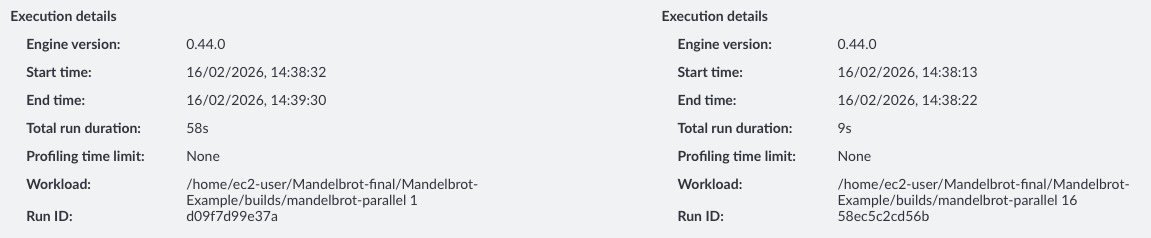
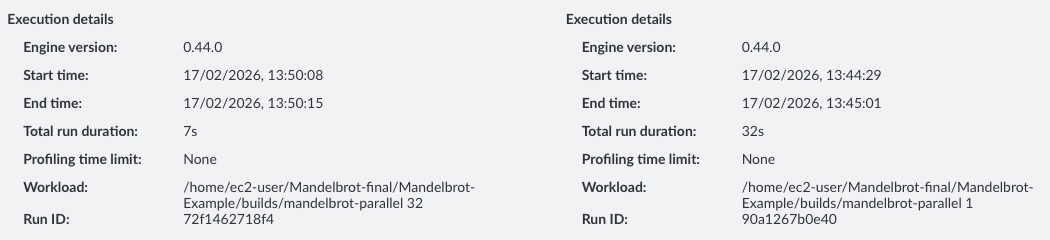
final tidy before PR

diff --git a/content/learning-paths/servers-and-cloud-computing/cpu_hotspot_atp/how-to-4.md b/content/learning-paths/servers-and-cloud-computing/cpu_hotspot_atp/how-to-4.md
@@ -6,25 +6,45 @@ weight: 5
 layout: learningpathall
 ---
 
-Now we can leverage the insights surfaced by ATP to focus the optimizations around the hottest functions. Looking at the source code, we understand the the hypotenuse function, `__hypot`, is being invoked to calculate the absolute value of a complex number. 
+Now we can leverage the insights surfaced by ATP to focus the optimizations around the hottest functions. Looking at the source code, we understand the the hypotenuse function, `__hypot`, is being invoked by the `Mandelbrot::getIterations` function to calculate the absolute value of a complex number. You may consider trying to used an optimized version of `libm`
 
-We can also see that the number of iterations is of the absolute value is limited by the loop boundary, MAX_ITERATIONS. Our first optimization could be to reduce MAX_ITERATIONS. This is defined as 1024 a static const integer in the `Mandelbrot.h` header. We could half this to 512 and assess the perceived image quality on our fractal.
+Looking at the `Mandelbrot::getIterations` function,  there are some obvious ways to optimize. 
+
+```cpp
+    while (iterations < MAX_ITERATIONS){
+        z = (z*z) + c;
+        if (abs(z) > THRESHOLD){
+            break;
+        }
+        iterations++;
+    }
+```
+
+### Optimization 1 - Limiting Loop Boundary
+
+
+We can see that the number of iterations is of the absolute value is limited by the loop boundary, MAX_ITERATIONS. Our first optimization could be to reduce MAX_ITERATIONS. This is defined as 1024 a static const integer in the `Mandelbrot.h` header. We could half this to 512 and assess the perceived image quality on our fractal.
 
 ```cpp
 public:
 ...
     static const int MAX_ITERATIONS = (1<<10);
 ...
-
 ```
 
+On the remote server, reduce `MAX_ITERATIONS` in `Mandelbrot.h` and rename the output file string in `main.cpp` to something else and rebuild the binary with the following command.
 
+```bash
+./build.sh
+```
 
-Looking at the change in image quality, there is neglible difference.
+Next, click on the refresh icon in the top right to rerun the recipe. Next we select the comparison mode to view differences in the run. Navigating to the 'Run Details' tab, we observe a reducion in run duration from 1m 0s to 0m 32s, almost proportional to the reduction in `MAX_ITERATIONS`. However, we need to see if the tradeoff between image quality and runtime was worth it. 
+
+Looking at the change in image quality, there is neglible difference in perceived image quality when halfing MAX_ITERATIONS. 
 
 ![comparison](./comparison.jpg)
 
-## Running hottest function on many cores
+### Optimization 2 - Parallelising Hot Function
 
 Fortunately, our loop does not contain any loop-carried dependencies, where the result of an iterations depends on a future or previous iteration. As such we can parallelize our hot function to fun on multiple threads if our CPU has multiple cores. 
 
@@ -36,21 +56,33 @@ git checkout main
 
 This branch parallelized the `Mandelbrot::draw` function, which is earlier function in the stack that eventually calls the `__hypot` function. 
 
-Build the example and run with 16 threads.
+Build the example, this creates a binary `./builds/mandelbrot-parallel` which takes in a numerical command line arguments to set the number of threads.
 
 ```bash
 ./build.sh
-./builds/mandelbrot-parallel 16
 ```
 
-To assess the change, we can compare with a previous run. Looking under the `Run Details` tab, we can see the execution time has reduced from 58s with 1 thread to 9s with 16 threads.
+Rerun the recipe with the new binary from Arm Total Peformance running on the host. 
+
+To assess the change, we can compare with a previous run. Looking under the `Run Details` tab, we can see the execution time has reduced further from 0m 32s to 7s with 32 threads.
 
 ![exec-change](./comparison-time.jpg)
 
 The percentage point of samples has not changed significantly, but we see with 64 threads the % of sampling landing on the `Mandelbrot::draw` function has reduced by 7%. This suggests that if we want to further improve the execution time, further optimizations on the `Mandelbrot::draw` function will yield the greatest benefit. 
 
-![flame-graph-comparison](./flame-graph-comparison.jpg)
+![flame-graph-comparison](./flame-graph-comparison.jpg).
+
+**Please Note:** The total run duration is the runtime for both the tooling setup and data analysis, not the runtime of the application. Using a command line tool such as `time` we observe the application duration is now ~ 1s. Resulting in almost a 100x improvement in runtime!  
+
+### (Optional Challenge) Additional optimizations
+
+You may have noticed our build script uses the `-O0` flag, which ensures the compiler does not add any additional optimizations. You can experiment with additional optimization levels, loop boundary sizes and threads. Please see our learning path introducing [basic compiler flags](https://learn.arm.com/learning-paths/servers-and-cloud-computing/cplusplus_compilers_flags/) for more information. Additionally, you may wish to look at vectorized libraries that could replace the hypotenuse function in `libm`, such as the [Arm Performance Libraries](https://developer.arm.com/documentation/101004/2601/Arm-Performance-Libraries-Math-Functions/Arm-Performance-Libraries-Vector-Math-Functions--Accuracy-Table).
 
 
 ## Summary
 
+In this learning path, we reduced the runtime of the Mandelbrot example by focusing on the hottest code paths—cutting execution time from around 1 minute to ~1 second through targeted optimization and parallelization. While this example is relatively simple and the optimizations are more obvious, the same principle applies to real-world workloads: optimize what matters most first, based on measurement.
+
+The cpu_hotspot recipe is designed to quickly identify an application’s hottest (most CPU-time-dominant) functions, giving you a clear, evidence-based starting point for performance work. By surfacing where execution time is actually being spent, it helps ensure any optimizations are targeted at the parts of the code most likely to deliver the largest performance gains, rather than relying on guesswork.
+
+This is often one of the first profiling steps you’ll run when assessing an application’s performance characteristics—especially to determine which functions dominate runtime and should be prioritized. Once hotspots are identified, you can follow up with deeper, function-specific analysis, such as memory investigations or top-down studies, and even build microbenchmarks around hot functions to explore lower-level bottlenecks and uncover additional optimization opportunities.

diff --git a/content/learning-paths/servers-and-cloud-computing/cpu_hotspot_atp/how-to-1.md b/content/learning-paths/servers-and-cloud-computing/cpu_hotspot_atp/how-to-1.md
@@ -16,16 +16,12 @@ Take a look at the example flame graph below.
 
 ![example](./flame-graph-example.jpg)
 
-The x axis represents the relative number of samples attributed to code paths ordered alphabetically, **not** a timeline. A wider block means that function appeared in more samples and therefore consumed more of the measured resource, typically CPU time. The y axis represents call stack depth. Frames at the bottom are closer to the root of execution such as a thread entry point, and frames above them are functions called by the frames below. A common workflow is to start with the widest blocks, then move upward through the stack to understand which callees dominate that hot path. The horizontal position is primarily a layout choice produced by merging stacks and does not imply ordering of events.
+The x axis represents the relative number of samples attributed to code paths ordered alphabetically, **not** a timeline. A wider block means that function appeared in more samples and therefore consumed more of the measured resource, typically CPU time. The y axis represents call stack depth. Frames at the bottom are closer to the root of execution such as a thread entry point, and frames above them are functions called by the frames below. A common workflow is to start with the widest blocks, then move upward through the stack to understand which callees dominate that hot path. Each sample captures a snapshot of the current call stack. Many samples are then aggregated by grouping identical stacks and summing their counts. This merging step is what makes flame graphs compact and readable. Reliable stack walking matters, and frame pointers are a common mechanism used to reconstruct the function call hierarchy consistently. When frame pointers are present, it is easier to unwind through nested calls and produce accurate stacks that merge cleanly into stable blocks.
 
-How stacks are collected and merged
+This learning path is not meant as a detailed explanation of flame graphs, if you would like to learn more please read [this blog](https://www.brendangregg.com/flamegraphs.html) by the original creator, Brendan Gregg. 
 
-Each sample captures a snapshot of the current call stack. Many samples are then aggregated by grouping identical stacks and summing their counts. This merging step is what makes flame graphs compact and readable. Reliable stack walking matters, and frame pointers are a common mechanism used to reconstruct the function call hierarchy consistently. When frame pointers are present, it is easier to unwind through nested calls and produce accurate stacks that merge cleanly into stable blocks.
+## Tooling options
 
-Collecting samples with perf and preparing a good build to analyse
+On Linux, flame graphs are commonly generated from samples collected with `perf`. perf periodically interrupts the running program and records a stack trace, then the collected stacks are converted into a folded format and rendered as the graph. Sampling frequency is important. If the frequency is too low you may miss short lived hotspots, and if it is too high you may introduce overhead or skew the results. To make the output informative, compile with debug symbols and preserve frame pointers so stacks resolve to meaningful function names and unwind reliably. A typical build uses `-g` and `-fno-omit-frame-pointer`.
 
-On Linux, flame graphs are commonly generated from samples collected with `perf`. perf periodically interrupts the running program and records a stack trace, then the collected stacks are converted into a folded format and rendered as the graph. Sampling frequency is important. If the frequency is too low you may miss short lived hotspots, and if it is too high you may introduce overhead or skew the results. To make the output informative, compile with debug symbols and preserve frame pointers so stacks resolve to meaningful function names and unwind reliably. A typical tutorial build uses `-g` and `-fno-omit-frame-pointer`.
-
-Tooling options
-
-The classic workflow is command line driven using perf for collection and separate scripts to generate the flame graph, following the approach introduced by Brendan Gregg, who is widely credited with creating and popularizing flame graphs. Arm has also developed a tool that simplifies this workflow through Arm Total Performance, making it easier to configure collection, run captures, and explore the resulting call hierarchies without manually stitching together the individual steps. 
+Arm has also developed a tool that simplifies this workflow through the CPU Cycle hotspot recipe in Arm Total Performance, making it easier to configure collection, run captures, and explore the resulting call hierarchies without manually stitching together the individual steps. This is the tooling solution we will use in this learning path.

diff --git a/content/learning-paths/servers-and-cloud-computing/cpu_hotspot_atp/how-to-2.md b/content/learning-paths/servers-and-cloud-computing/cpu_hotspot_atp/how-to-2.md
@@ -8,31 +8,33 @@ layout: learningpathall
 
 ## Setup
 
-This learning path uses a worked example to make flame graphs and sampling based profiling practical. We will generate a fractal bitmap image by computing the Mandelbrot set and mapping its iteration counts to pixel values. The program is written in C++11, and you will have access to the full source code so you can rebuild it, profile it, and relate what you see in the flame graph back to specific functions and loops.
+This learning path uses a hands-on worked example to make sampling-based profiling and flame graphs practical. You’ll build a C++11 program that generates a fractal bitmap by computing the Mandelbrot set, then mapping each pixel’s iteration count to a pixel value. You’ll have the full source code, so you can rebuild the program, profile it, and connect what you see in the flame graph back to the exact functions and loops responsible for the runtime.
 
-A fractal is a pattern with detail at many scales, often showing self similar structure. Fractals are typically produced by repeatedly applying a mathematical rule. In the Mandelbrot case, each pixel represents a complex number and is iterated through a simple recurrence. How quickly the value escapes, or whether it stays bounded, determines the coloring and creates the distinctive image. Please refer to the [Wikipedia](https://en.wikipedia.org/wiki/Mandelbrot_set) page for more information.
+A fractal is a pattern that shows detail at many scales, often with self-similar structure. Fractals are usually generated by repeatedly applying a simple mathematical rule. In the Mandelbrot set, each pixel corresponds to a complex number, which is iterated through a basic recurrence. How quickly the value “escapes” (or whether it stays bounded) determines the pixel’s color and produces the familiar Mandelbrot image.
+
+You don’t need to understand the Mandelbrot algorithm in detail to follow this learning path—we’ll use it primarily as a convenient, compute-heavy workload for profiling. If you'd  like to learn more, please refer to the [Wikipedia](https://en.wikipedia.org/wiki/Mandelbrot_set) page for more information.
+ 
 
 ## Connect to APT Target
 
-Please refer to the [installation guide](https://learn.arm.com/install-guides/atp) if it is your first time setting up Arm Total Performance. In this learning path, I will be connection to an AWS Graviton3 metal instance with 64 Neoverse V1 cores. From the host machine, test the connection to the remote server by navigating to `'Targets`->`Test Connection`. You should see the successul connection below. 
+Please refer to the [installation guide](https://learn.arm.com/install-guides/atp) if it is your first time setting up Arm Total Performance. In this learning path, I will be connecting to an AWS Graviton3 metal instance (`m7g.metal`) with 64 Neoverse V1 cores. From the host machine, test the connection to the remote server by navigating to `'Targets`->`Test Connection`. You should see the successul connection below. 
 
 ![successful-connection](./successful-connection.jpg).
 
 ## Build Application on Remote Server
 
-Next, connect to the remote server, for example using SSH or VisualStudio Code, and clone the Mandelbrot repository 
+Next, connect to the remote server, for example using SSH or VisualStudio Code, and clone the Mandelbrot repository. This is available under the [Arm Education License](https://github.com/arm-university/Mandelbrot-Example?tab=License-1-ov-file) for teaching and learning. Create a new directory where you will store and build this example. Next, run the commands below.
 
 ```bash
-cd ~
-git clone git@github.com:arm-university/Mandelbrot-Example.git # TODO - UPDATE WITH PUBLIC HTTPS
-cd Mandelbrot-Example
+git clone https://github.com/arm-university/Mandelbrot-Example.git
+cd Mandelbrot-Example && mkdir images builds
 git checkout single-thread
 ```
 
-Install a C++ compiler using your operating system's package manager.
+Install a C++ compiler, for example using your operating system's package manager.
 
-```
-sudo dnf install g++ gcc
+```bash
+sudo dnf update && sudo dnf install g++ gcc
 ```
 
 Build the application. 

diff --git a/content/learning-paths/servers-and-cloud-computing/cpu_hotspot_atp/how-to-3.md b/content/learning-paths/servers-and-cloud-computing/cpu_hotspot_atp/how-to-3.md
@@ -8,9 +8,9 @@ layout: learningpathall
 
 ## Run CPU Cycle Hotspot Recipe
 
-As the `main.cpp` file below shows, we simply create a 1920x1080 bitmap image of our fractal. To quickly see where the bottleneck, or hotspot, within our program is, we will run the recipe through Arm Total Performance (ATP). 
+As shown in the `main.cpp` file below, the program generates a 1920×1080 bitmap image of our fractal. To identify performance bottlenecks, we’ll run the CPU Cycle Hotspot recipe in Arm Total Performance (ATP). ATP uses sampling to estimate where the CPU spends most of its time, allowing it to highlight the hottest functions—especially useful in larger applications where it isn’t obvious ahead of time which functions will dominate runtime.
 
-**Please Note**: You will need to replace the first string argument in the `myplot.draw()` function with the absolute path to the image folder and rebuild the application.
+**Please Note**: You will need to replace the first string argument in the `myplot.draw()` function with the absolute path to the image folder and rebuild the application. If not, the image will be written to the `/tmp/atperf/tools/atperf-agent` directory from where the binary is run. As the name suggests, this folder is periodically deleted. 
 
 ```cpp
 #include "Mandelbrot.h"

diff --git a/content/learning-paths/servers-and-cloud-computing/cpu_hotspot_atp/_index.md b/content/learning-paths/servers-and-cloud-computing/cpu_hotspot_atp/_index.md
@@ -1,16 +1,17 @@
 ---
-title: Getting Started with CPU Cycle Hotspot 
+title: Find CPU Cycle Hotspots with Arm Total Performance
 
 minutes_to_complete: 30
 
-who_is_this_for: Engineers looking to optimize their AArch64 workload running on a Linux operating system. 
+who_is_this_for: Cloud Engineers looking to optimize their workload running on a Linux-based Arm system. 
 
 learning_objectives: 
-    - understand how to intepret a flame graph through a worked example
-    - understand which functions within a program have the greatest CPU utilization and candidates for optimization
+    - Run the CPU Cycle Hotspot recipe in Arm Total Performance
+    - Identify which functions in your program use the most CPU cycles, so you can target the best candidates for optimization.
 
 prerequisites:
     - Access to Arm Total Performance
+    - Basic understand on C++
 
 author: Kieran Hejmadi
 
